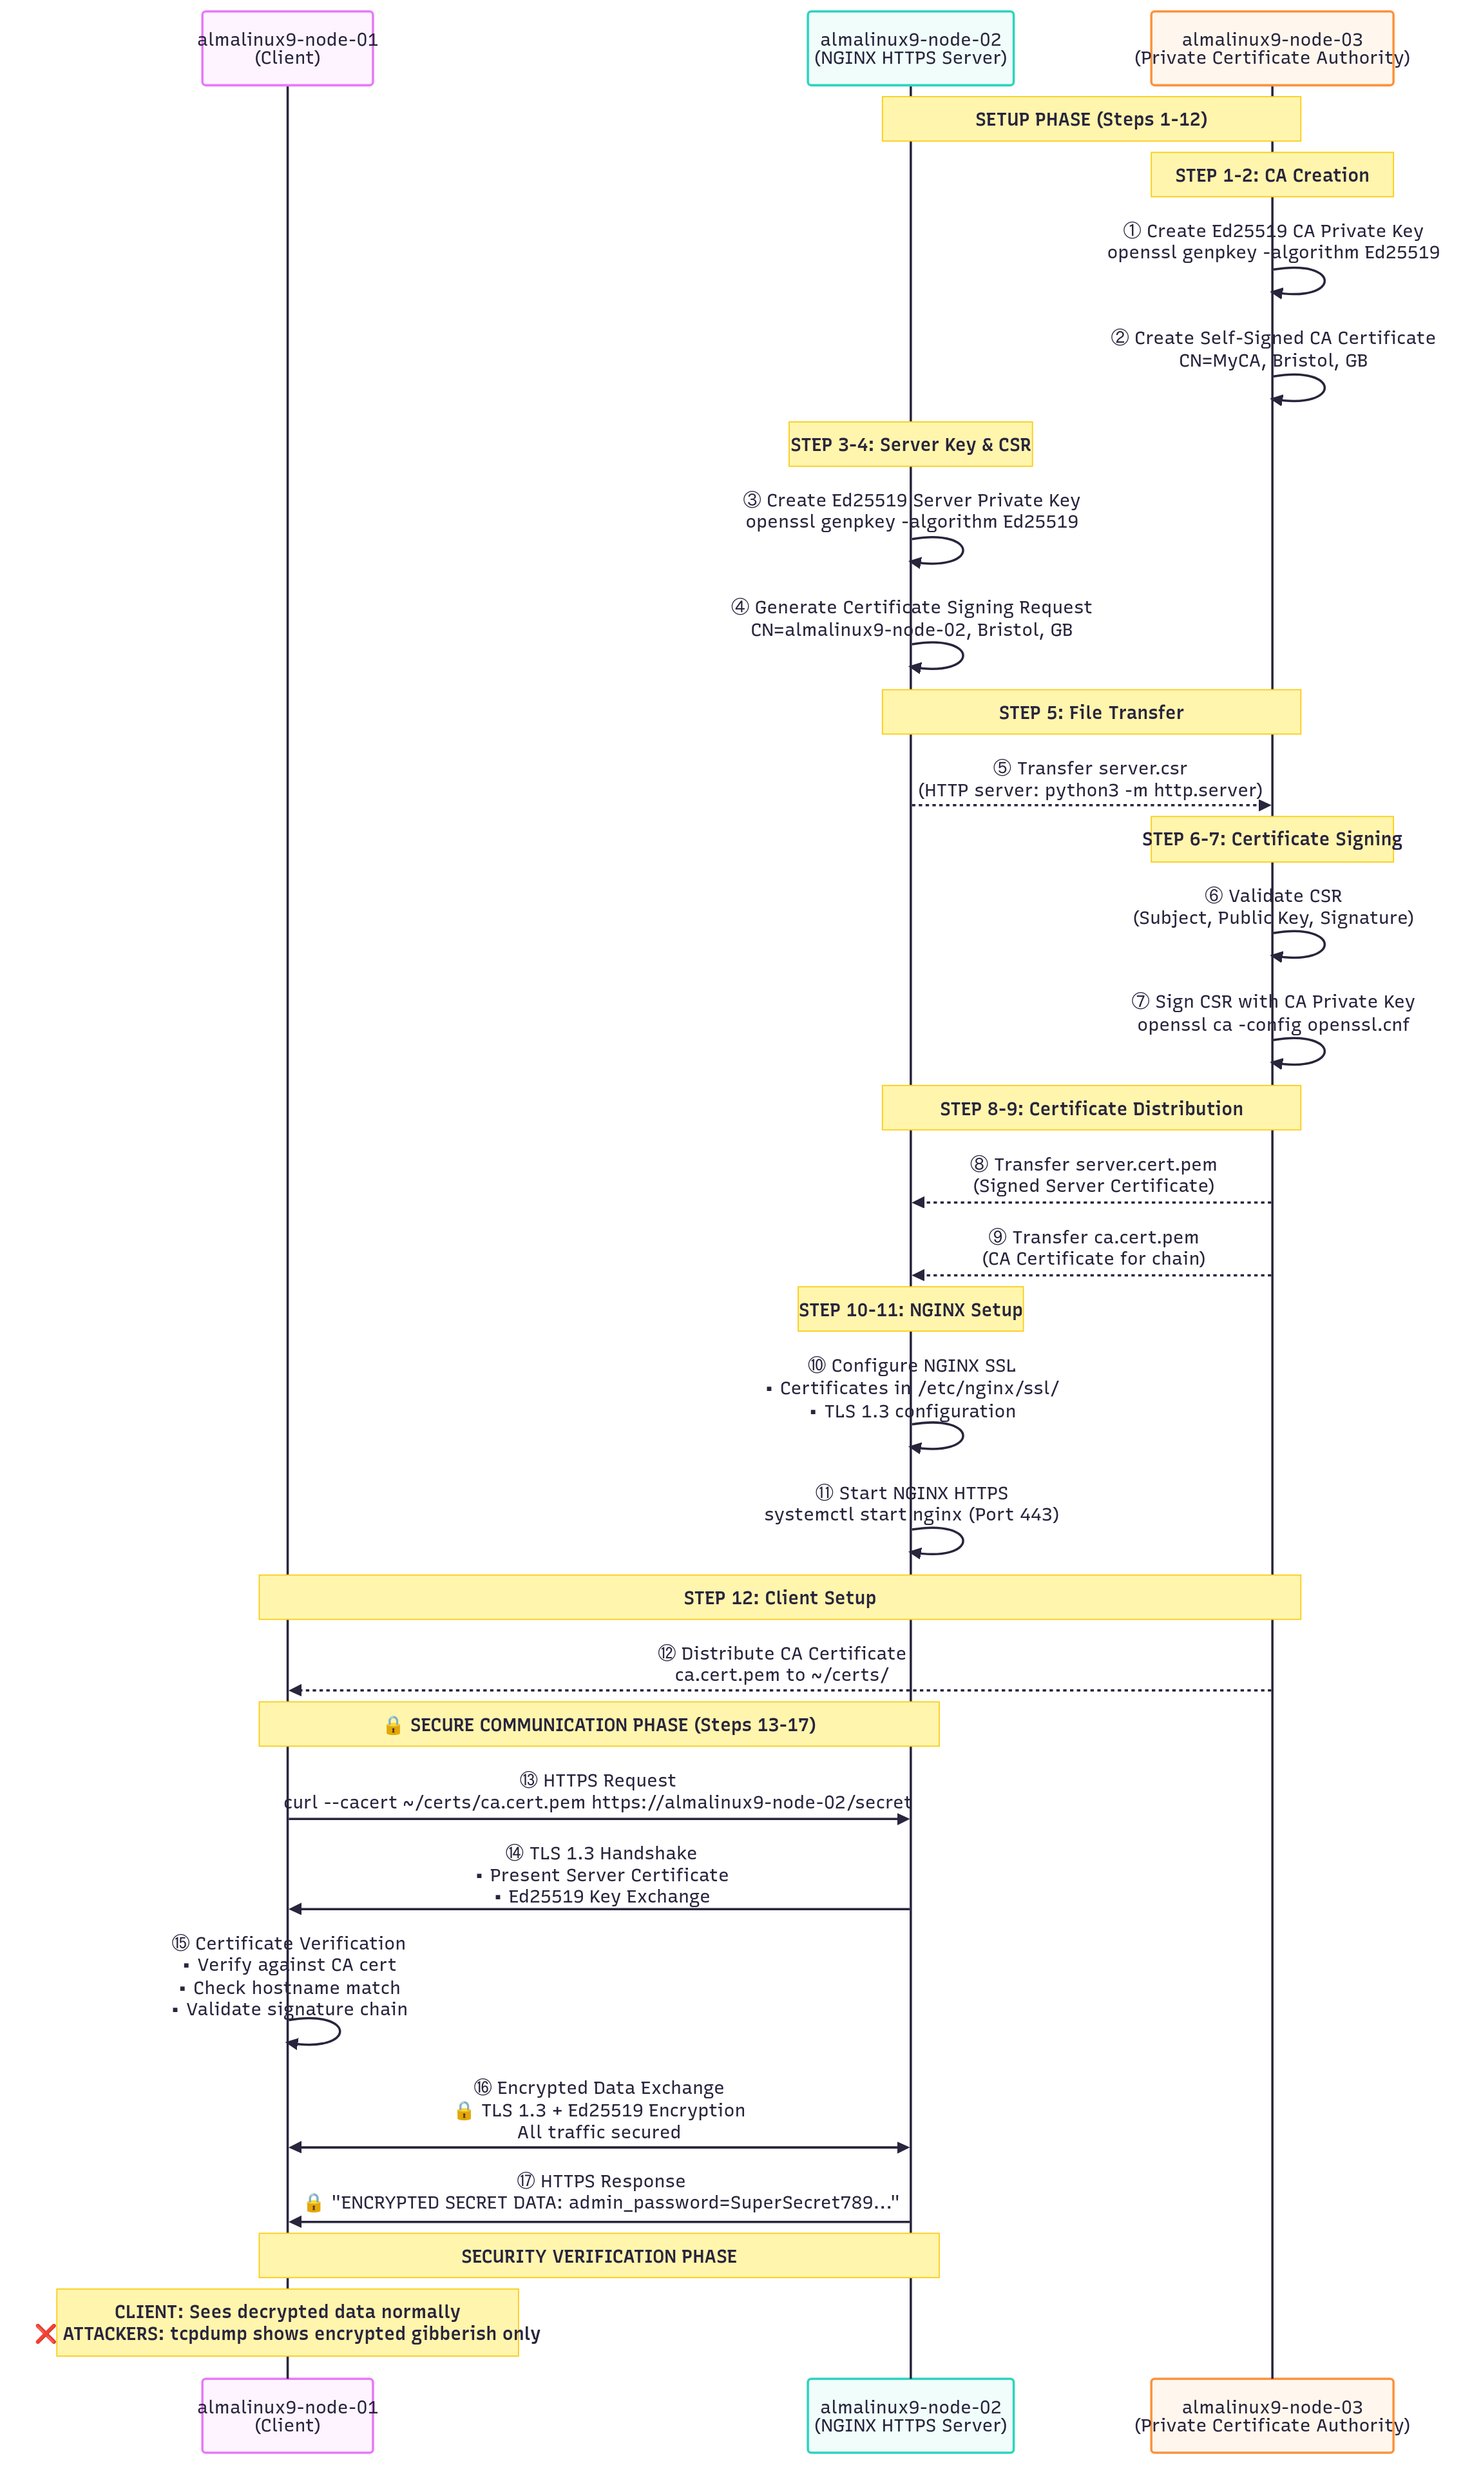
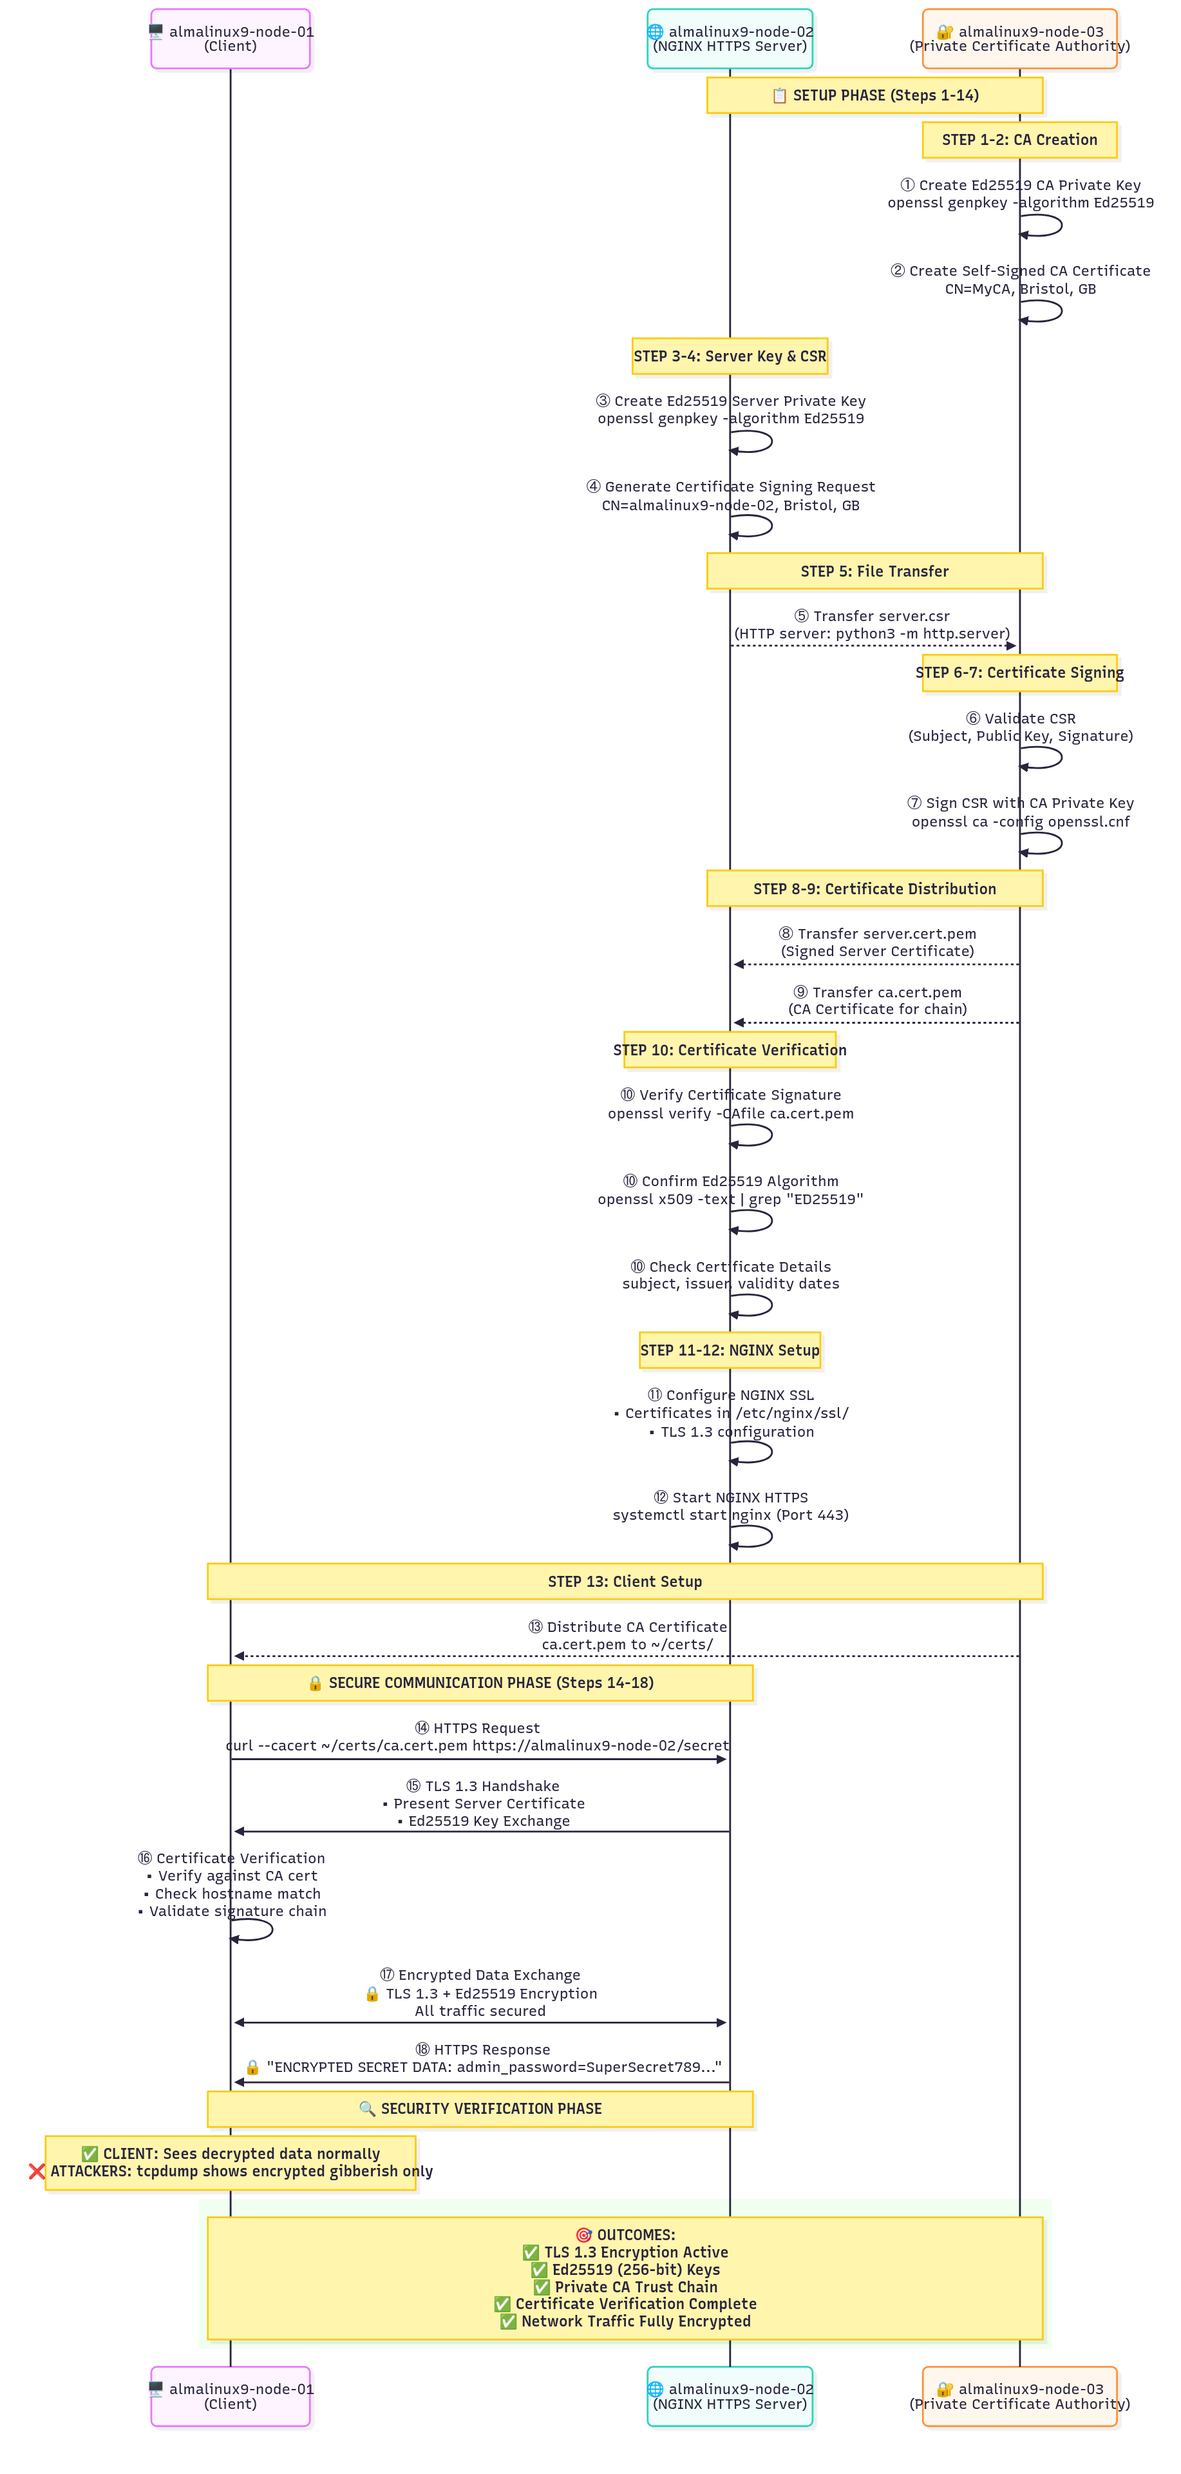
tls-article-03

Changed region(s): [[0.0311, 0.125, 0.9635, 1.0], [0.5284, 0.0, 0.9635, 0.1875], [0.1243, 0.0, 0.2797, 0.0625]]

diff --git a/content/post/tls-setup-ed25519.md b/content/post/tls-setup-ed25519.md
@@ -1,15 +1,15 @@
 ---
-title: "A Guide to TLS Client-Server Implementation with private CA, using Ed25519 Elliptic Curve Cryptography"
+title: "A Guide to Generating TLS Ed25519 (Elliptic Curve Cryptography) Certificates Using Private CA"
 date: 2025-07-10T11:37:03+01:00
 draft: false
 tags: ['TLS', 'SSL', 'Encryption', 'Certificate', 'Ed25519']
 categories: ['Security']
 thumbnail: "images/tls-ed25519.png"
-summary: "This guide demonstrates how to set up secure TLS 1.3 communication using Ed25519 elliptic curve cryptography and a private Certificate Authority (CA). It covers encrypted client-server communication using modern, efficient cryptographic standards — ideal for internal systems, microservices, and zero-trust network setups."
+summary: "This guide demonstrates how to set up secure TLS 1.3 communication using Ed25519 elliptic curve certificates and a private Certificate Authority (CA). It covers encrypted client-server communication with modern, efficient cryptographic standards — ideal for internal systems, microservices, and zero-trust network architectures."
 ---
 ## Overview
 
-This guide demonstrates how to set up secure TLS 1.3 communication using Ed25519 elliptic curve cryptography and a private Certificate Authority (CA). It covers encrypted client-server communication using modern, efficient cryptographic standards — ideal for internal systems, microservices, and zero-trust network setups.
+This guide demonstrates how to set up secure TLS 1.3 communication using Ed25519 elliptic curve certificates and a private Certificate Authority (CA). It covers encrypted client-server communication with modern, efficient cryptographic standards — ideal for internal systems, microservices, and zero-trust network architectures.
 
 ### What Is Ed25519 and How Does It Compare to RSA?
 
@@ -47,11 +47,14 @@ Below is a summary of the key aspects in a comparison table:
 
 ### Environment setup
 
-I built this environment locally on Fedora 42 using `libvirt` (Linux virtualization backend) and `Vagrant` (VM automation tool).
-You can adapt the setup to use other virtualisation or cloud platforms, as long as they support at least three nodes.
+I built this environment locally on Fedora 42 using `libvirt` (Linux virtualisation API) and `Vagrant` (VM automation tool) to provision 3 x AlmaLinux 9 nodes. The choice of virtualisation platform and OS are flexible — any setup that supports at least three VMs can be used, including cloud-based or alternative local environments.
 
-- Virtualisation: libvirt + Vagrant.
-- VM OS: 3 × AlmaLinux 9 nodes.
+- Virtualisation Platform: `libvirt`.
+- Orchestration VM tool: `Vagrant`.
+- VM OS: 3 x `AlmaLinux 9`.
+- Network: Private isolated network (`192.168.56.x` range).
+
+Note: This setup can be replicated using any virtualization platform (VMware, VirtualBox, cloud VMs, or physical machines). The key requirement is having three separate systems that can communicate over a network.
 
 - node-03 — Certificate Authority (CA)
     - Generates Ed25519 root certificate and signs CSRs.
@@ -68,17 +71,26 @@ You can adapt the setup to use other virtualisation or cloud platforms, as long 
 
 ### Architecture Flow Diagram
 
-![TLS ](images/tls-setup-ca-ed25519.png)
+The diagram below illustrates the complete TLS 1.3 setup flow using Ed25519 and a private Certificate Authority (CA), showing each step across the client, server, and CA nodes.
+
+ For each step shown in the diagram, the corresponding implementation commands are provided in the sections below.
+
+![TLS 1.3 Setup Flow Using Ed25519 and a Private Certificate Authority](images/tls-setup-ca-ed25519.png)
 
 ## Detailed Implementation
 
-### Step 1: Private Root Certificate Authority Setup (almalinux9-node-03)
+The following implementation steps assume you are operating as the `root` user in `/root` directory.
 
-Create the foundational private Root CA that will issue and sign all certificates.
+### Step 1–2: Private Root Certificate Authority Setup (almalinux9-node-03)
+
+Create the private Root Certificate Authority (CA) that will issue certificated for TLS.
 
 ```bash
+# Switch to root shell with root environment
+sudo -i
+
 # Install OpenSSL
-sudo dnf install -y openssl
+dnf install -y openssl
 
 # Create CA directory structure
 mkdir -p ~/ca/{certs,crl,newcerts,private}
@@ -162,94 +174,212 @@ openssl req -config openssl.cnf -key private/ca.key.pem -new -x509 -days 7300 -s
 chmod 444 certs/ca.cert.pem
 ```
 
-### Step 2: Server Certificate Generation (almalinux9-node-02)
-
+### Step 3–4: Server Key & CSR (almalinux9-node-02)
 Generate the server's private key and certificate signing request (CSR).
 
 ```bash
-# Install required packages
-sudo dnf install -y openssl nginx
+# Switch to root shell with root environment
+sudo -i
+
+# Install OpenSSL and NGINX
+dnf install -y openssl nginx
 
 # Generate Ed25519 server private key
 openssl genpkey -algorithm Ed25519 -out server.key.pem
 
 # Create certificate signing request
 openssl req -new -key server.key.pem -out server.csr -subj "/C=GB/ST=England/L=Bristol/O=MyOrg/CN=almalinux9-node-02"
+```
 
-# Transfer CSR to CA (using HTTP server) fron node-02 (server) to node-03 (Private Root CA) for sigining 
-# On almalinux9-node-02 - start HTTP server
-# Run the following command in the directory containing server.csr 
+### Step 5: CSR File Transfer (node-02 → node-03)
+
+Transfer the server's CSR to the CA for signining 
+
+```bash
+# On almalinux9-node-02 (server)
+# Start temporary HTTP server to share the CSR
 python3 -m http.server 8000
 ```
 
-### Step 3: Certificate Signing (almalinux9-node-03)
+### Step 6–7: Certificate Signing (almalinux9-node-03)
+
+Download and sign the CSR with the CA private key.
 
 ```bash
-# Download server CSR from node-02
+# Switch to root shell with root environment
+sudo -i
+
+# On almalinux9-node-03 (CA)
 cd ~/ca
-wget http://192.168.56.102:8000/server.csr  # 192.168.56.102 is our node-02 private IP address
+
+# Download CSR from node-02
+wget http://192.168.56.102:8000/server.csr      # 192.168.56.102 is node-02 (server) IP
 
 # Sign the server certificate
-cd ~/cq
 openssl ca -config openssl.cnf -extensions server_cert -days 365 -notext -md sha256 -in server.csr -out server.cert.pem
 
-# Serve signed certificates
+# Start HTTP server to distribute signed certificates to other nodes
 python3 -m http.server 8000
 ```
 
-### Step 4: NGINX TLS Configuration (almalinux9-node-02)
+### Step 8–9: Certificate Distribution (node-03 → node-02)
 
-Configure NGINX with TLS 1.3 and Ed25519 certificates.
+Download the signed certificate and CA certificate to the server.
 
 ```bash
-# Download signed certificates
-wget http://192.168.56.103:8000/server.cert.pem
-wget http://192.168.56.103:8000/certs/ca.cert.pem
+# On almalinux9-node-02
 
+# Download signed server certificate from CA
+wget http://192.168.56.103:8000/server.cert.pem     # 192.168.56.103 is node-03 (CA) IP
+
+# Download CA certificate 
+wget http://192.168.56.103:8000/certs/ca.cert.pem   # 192.168.56.103 is node-03 (CA) IP
+```
+
+### Step 10: Certificate Verification (almalinux9-node-02)
+
+Verify the signed certificate is valid and properly configured before using it with NGINX.
+
+```bash
+# 1. Verify certificate was signed by your CA
+openssl verify -CAfile ca.cert.pem server.cert.pem
+
+# Output expected
+server.cert.pem: OK
+```
+
+```bash
+# 2. Check certificate details
+openssl x509 -in server.cert.pem -noout -subject -issuer -dates -fingerprint
+
+# Output expected:
+subject=C=GB, ST=England, O=MyOrg, CN=almalinux9-node-02
+issuer=C=GB, ST=England, L=Bristol, O=MyOrg, CN=MyCA
+notBefore=Jul 14 20:00:35 2025 GMT
+notAfter=Jul 14 20:00:35 2026 GMT
+SHA1 Fingerprint=40:B3:BD:5D:3E:76:9C:FE:AE:08:92:5A:58:0B:53:35:CB:62:05:8E
+```
+
+``` bash
+# 3. Confirm Ed25519 is being used
+openssl x509 -in server.cert.pem -noout -text | grep "Public Key Algorithm"
+
+# Output expected
+Public Key Algorithm: ED25519
+```
+
+```bash
+# 4. View complete certificate information (optional)
+openssl x509 -in server.cert.pem -text -noout
+
+# Output expected:
+Certificate:
+    Data:
+        Version: 3 (0x2)
+        Serial Number: 4096 (0x1000)
+        Signature Algorithm: ED25519
+        Issuer: C=GB, ST=England, L=Bristol, O=MyOrg, CN=MyCA
+        Validity
+            Not Before: Jul 14 20:00:35 2025 GMT
+            Not After : Jul 14 20:00:35 2026 GMT
+        Subject: C=GB, ST=England, O=MyOrg, CN=almalinux9-node-02
+        Subject Public Key Info:
+            Public Key Algorithm: ED25519
+                ED25519 Public-Key:
+                pub:
+                    9c:03:54:87:8c:4b:b2:39:ca:4c:79:b7:39:6e:40:
+                    eb:aa:3b:fb:4e:a7:7b:c1:7d:f9:3b:99:29:89:4b:
+                    e6:68
+        X509v3 extensions:
+            X509v3 Basic Constraints: 
+                CA:FALSE
+            X509v3 Subject Key Identifier: 
+                48:6C:A7:A9:8B:72:29:1E:90:75:3B:6C:FE:4C:DF:75:1F:0F:59:5D
+            X509v3 Authority Key Identifier: 
+                keyid:C4:72:73:3D:9D:CA:4A:CB:EF:77:D6:3F:D7:58:C9:B5:4A:A5:8C:DE
+                DirName:/C=GB/ST=England/L=Bristol/O=MyOrg/CN=MyCA
+                serial:43:D8:98:80:38:39:6E:1A:92:1E:31:CF:F8:1B:5B:E0:D0:BA:43:E7
+            X509v3 Key Usage: critical
+                Digital Signature, Key Encipherment
+            X509v3 Extended Key Usage: 
+                TLS Web Server Authentication
+    Signature Algorithm: ED25519
+    Signature Value:
+        fb:4d:f9:d3:68:bb:ab:34:d0:c1:6c:e8:9f:fe:4a:57:57:64:
+        a4:2c:90:60:04:0b:c5:10:e8:2c:a6:99:eb:4a:25:c8:ba:39:
+        54:7c:60:bd:e4:0f:d3:f1:e6:99:c4:06:9b:8e:01:bf:f1:05:
+        14:62:0f:3d:cb:3b:6f:35:90:08
+```
+
+### Step 11–12: NGINX Setup (almalinux9-node-02)
+
+Configure NGINX with TLS 1.3 with the Ed25519 certificate.
+
+```bash
 # Install certificates
-sudo mkdir -p /etc/nginx/ssl
-sudo cp server.cert.pem /etc/nginx/ssl/
-sudo cp server.key.pem /etc/nginx/ssl/
-sudo cp ca.cert.pem /etc/nginx/ssl/
-sudo chmod 600 /etc/nginx/ssl/server.key.pem
+mkdir -p /etc/nginx/ssl
+cp server.cert.pem /etc/nginx/ssl/
+cp server.key.pem /etc/nginx/ssl/
+cp ca.cert.pem /etc/nginx/ssl/
+chmod 600 /etc/nginx/ssl/server.key.pem
 
 # Configure NGINX for TLS 1.3
-sudo tee /etc/nginx/conf.d/https-server.conf << 'EOF'
+tee /etc/nginx/conf.d/https-server.conf << 'EOF'
+# HTTP Server (unencrypted) - for testing
+server {
+    listen 80;
+    server_name almalinux9-node-02;
+
+    location / {
+        return 200 "UNENCRYPTED HTTP Server - this data is visible!\n";
+        add_header Content-Type text/plain;
+    }
+
+    location /secret {
+        return 200 "SECRET DATA: password123 - credit card: 1234-5678-9012-3456\n";
+        add_header Content-Type text/plain;
+    }
+}
+
+# HTTPS Server (encrypted) - TLS 1.3
 server {
     listen 443 ssl http2;
     server_name almalinux9-node-02;
-    
+
     ssl_certificate /etc/nginx/ssl/server.cert.pem;
     ssl_certificate_key /etc/nginx/ssl/server.key.pem;
-    
-    # TLS 1.3 configuration
+
     ssl_protocols TLSv1.3;
     ssl_prefer_server_ciphers off;
-    
+
     location / {
         return 200 "HTTPS Server - TLS 1.3 + Ed25519 Encrypted!\n";
         add_header Content-Type text/plain;
     }
-    
+
     location /secret {
-        return 200 "ENCRYPTED SECRET DATA: admin_password=SuperSecret789 - credit_card=9876-5432-1098-7654\n";
+        return 200 "ENCRYPTED SECRET DATA: admin_password=SuperSecret789 - credit_card=9876-5432-1098-7654 - ssn=123-45-6789 - bank_account=987654321\n";
         add_header Content-Type text/plain;
     }
 }
 EOF
 
 # Start NGINX
-sudo systemctl start nginx
-sudo systemctl enable nginx
+systemctl start nginx
+systemctl enable nginx
+
+# Check NGINX status
+systemctl status nginz
 ```
 
-### Step 5: Client Setup (almalinux9-node-01)
 
-Configure the client with CA certificate for server verification.
+### Step 13: Client Setup (almalinux9-node-01)
+
+Configure the client to trust the CA and establish secure TLS.
 
 ```bash
 # Install client tools
-sudo dnf install -y openssl curl
+dnf install -y openssl curl
 
 # Create certificate directory
 mkdir -p ~/certs
@@ -258,26 +388,26 @@ mkdir -p ~/certs
 wget http://192.168.56.103:8000/certs/ca.cert.pem -O ~/certs/ca.cert.pem
 ```
 
-### Step 6: Security Testing and Verification
+### Steps 14–18: Secure Communication Phase
 
-In this step, we validate the secure TLS setup by testing connectivity, inspecting the TLS handshake, and comparing encrypted vs unencrypted traffic captures.
+Test secure HTTPS access, inspect handshake, and verify traffic encryption.
 
 ```bash
-# 1. Test basic HTTPS connection first (establish that TLS works)
+# 13. Test basic HTTPS connection first (establish that TLS works)
 curl --cacert ~/certs/ca.cert.pem https://almalinux9-node-02/secret
 
-# 2. Verify TLS handshake details
+# 14. Verify TLS handshake details
 curl -v --cacert ~/certs/ca.cert.pem https://almalinux9-node-02/
 
-# 3. CAPTURE HTTPS TRAFFIC - Start tcpdump FIRST, then make request
+# 15. Encrypted Packet Capture (HTTPS)
 echo "=== Capturing HTTPS Traffic (Encrypted) ==="
-sudo tcpdump -i any -A -c 10 host almalinux9-node-02 and port 443 &
+tcpdump -i any -A -c 10 host almalinux9-node-02 and port 443 &
 sleep 2  # Give tcpdump time to start
 curl --cacert ~/certs/ca.cert.pem https://almalinux9-node-02/secret
 
-# 4. CAPTURE HTTP TRAFFIC - Start tcpdump FIRST, then make request
+# 16. Plaintext Packet Capture (HTTP)
 echo "=== Capturing HTTP Traffic (Unencrypted) ==="
-sudo tcpdump -i any -A -c 10 host almalinux9-node-02 and port 80 &
+tcpdump -i any -A -c 10 host almalinux9-node-02 and port 80 &
 sleep 2  # Give tcpdump time to start
 curl http://almalinux9-node-02/secret
 ```
@@ -286,7 +416,7 @@ curl http://almalinux9-node-02/secret
 ### Test 1: Basic HTTPS Connection
 
 ```bash
-$ curl --cacert ~/certs/ca.cert.pem https://almalinux9-node-02/secret
+curl --cacert ~/certs/ca.cert.pem https://almalinux9-node-02/secret
 ```
 
 ### Expected Output:
@@ -299,7 +429,7 @@ Client successfully receives decrypted data over secure TLS connection.
 ### Test 2: TLS Handshake Verification
 
 ```bash
-$ curl -v --cacert ~/certs/ca.cert.pem https://almalinux9-node-02/
+curl -v --cacert ~/certs/ca.cert.pem https://almalinux9-node-02/
 ```
 
 ### Key Output Indicators:
